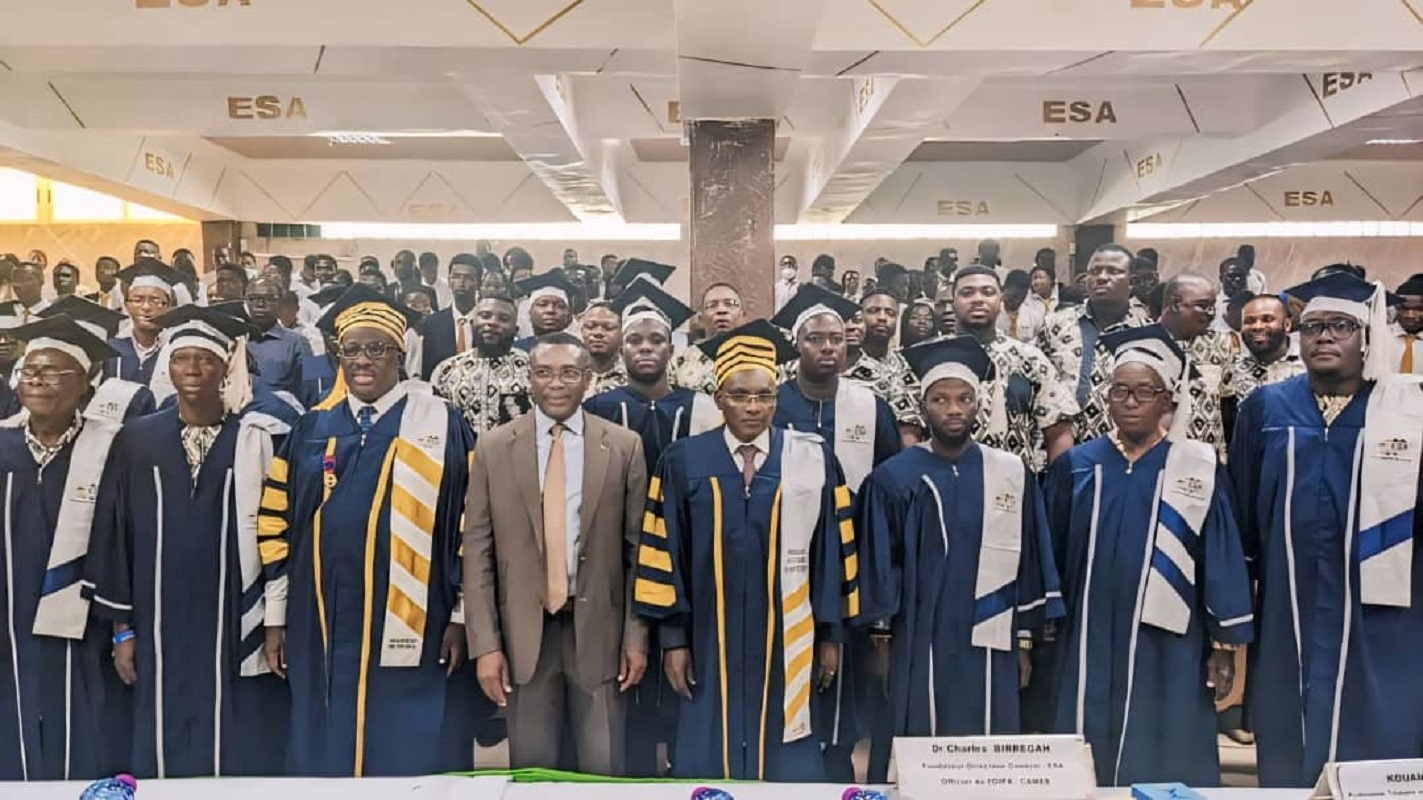
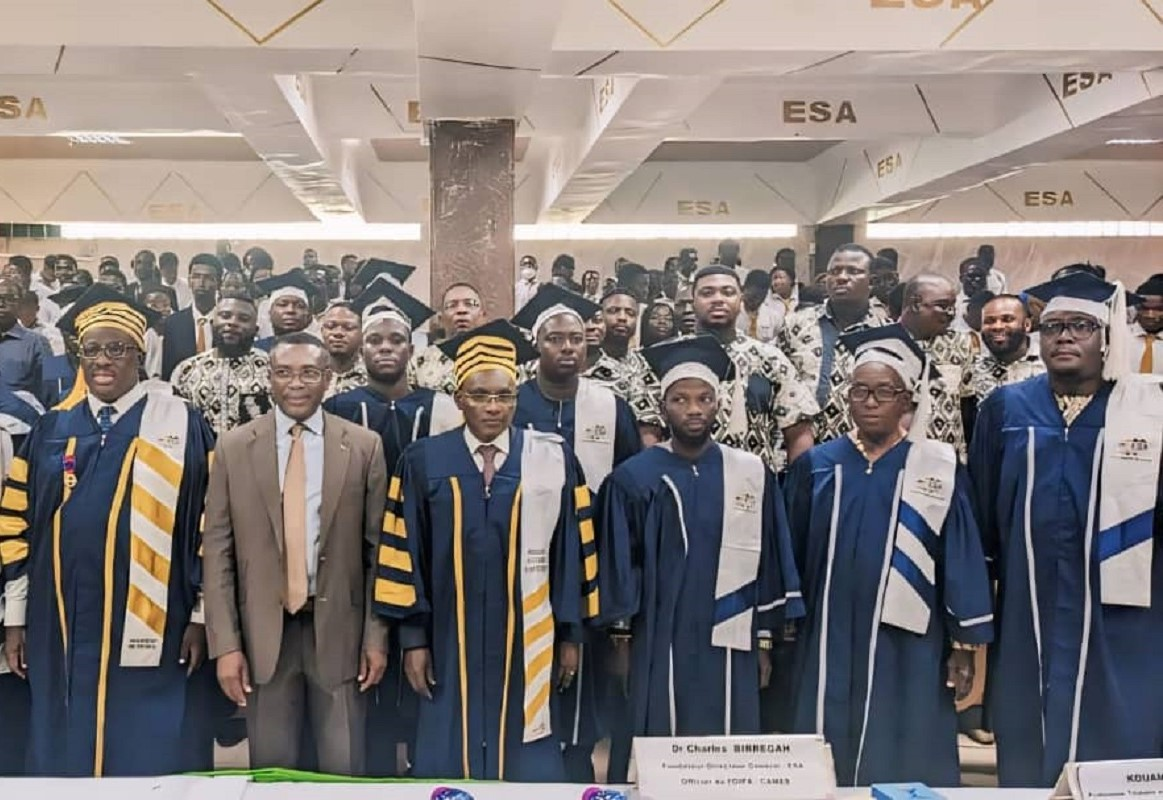
chore: image ESA-3 optimisee (211 Ko), ajustement script e2e flux parallele, script e2e bordereau d'inscription

diff --git a/easy-ecole-backend/src/core/scripts/test-e2e-flux-parallele.ts b/easy-ecole-backend/src/core/scripts/test-e2e-flux-parallele.ts
@@ -71,7 +71,7 @@ async function main() {
     if (!sessions.length) { ko('aucune session'); return finir(seq) }
     const session = sessions[0]
     ok('session', `#${session.id}`)
-    const PARCOURS_ID = 1 // Génie logiciel : 4 cours tous rattachés à une classe
+    const PARCOURS_ID = 5 // Informatique : 55 cours classés
     const [[pc]]: any[] = await seq.query(`SELECT COUNT(*) n FROM ins_cours WHERE parcoursId=:p AND deletedAt IS NULL AND classeId IS NOT NULL`, { replacements: { p: PARCOURS_ID } })
     if (!pc?.n) { ko('parcours sans cours/classé — ajuster PARCOURS_ID'); return finir(seq) }
     ok('parcours', `#${PARCOURS_ID} (${pc.n} cours classés)`)
